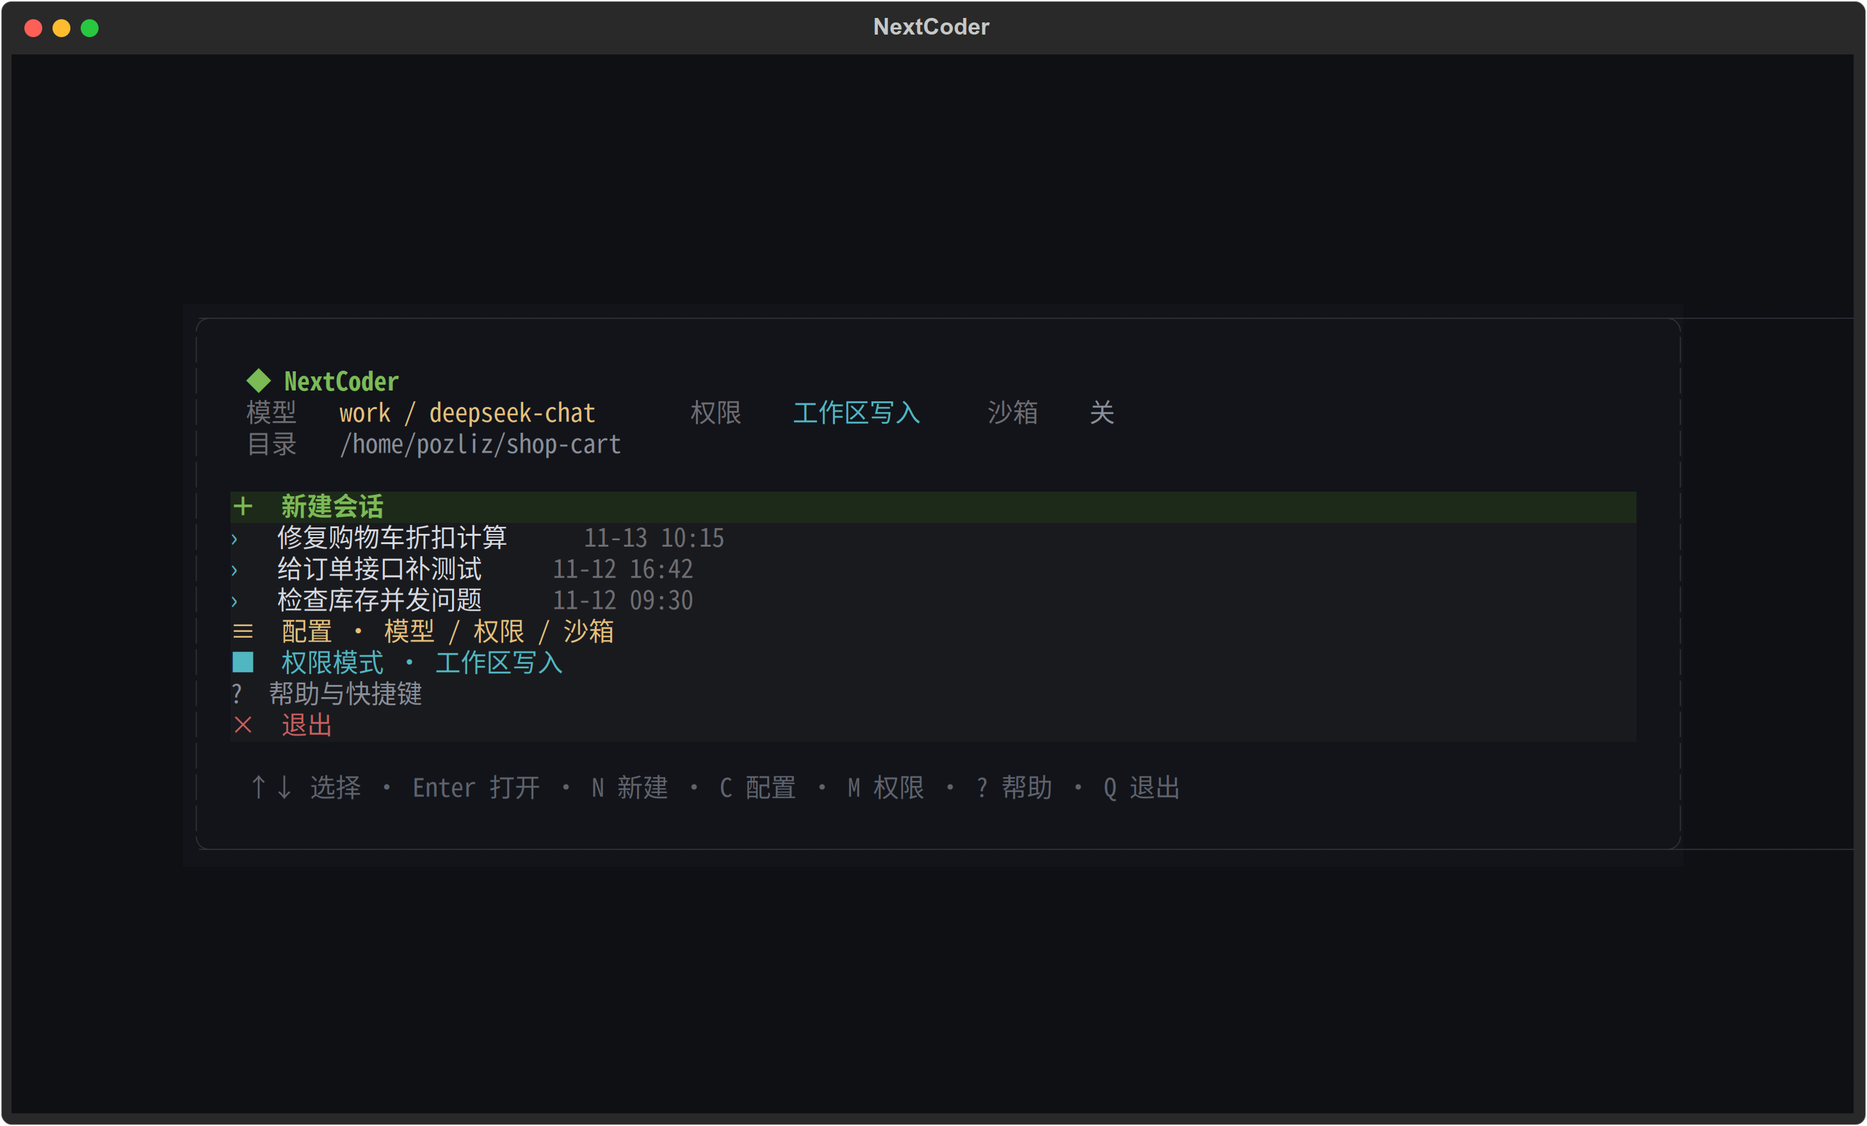
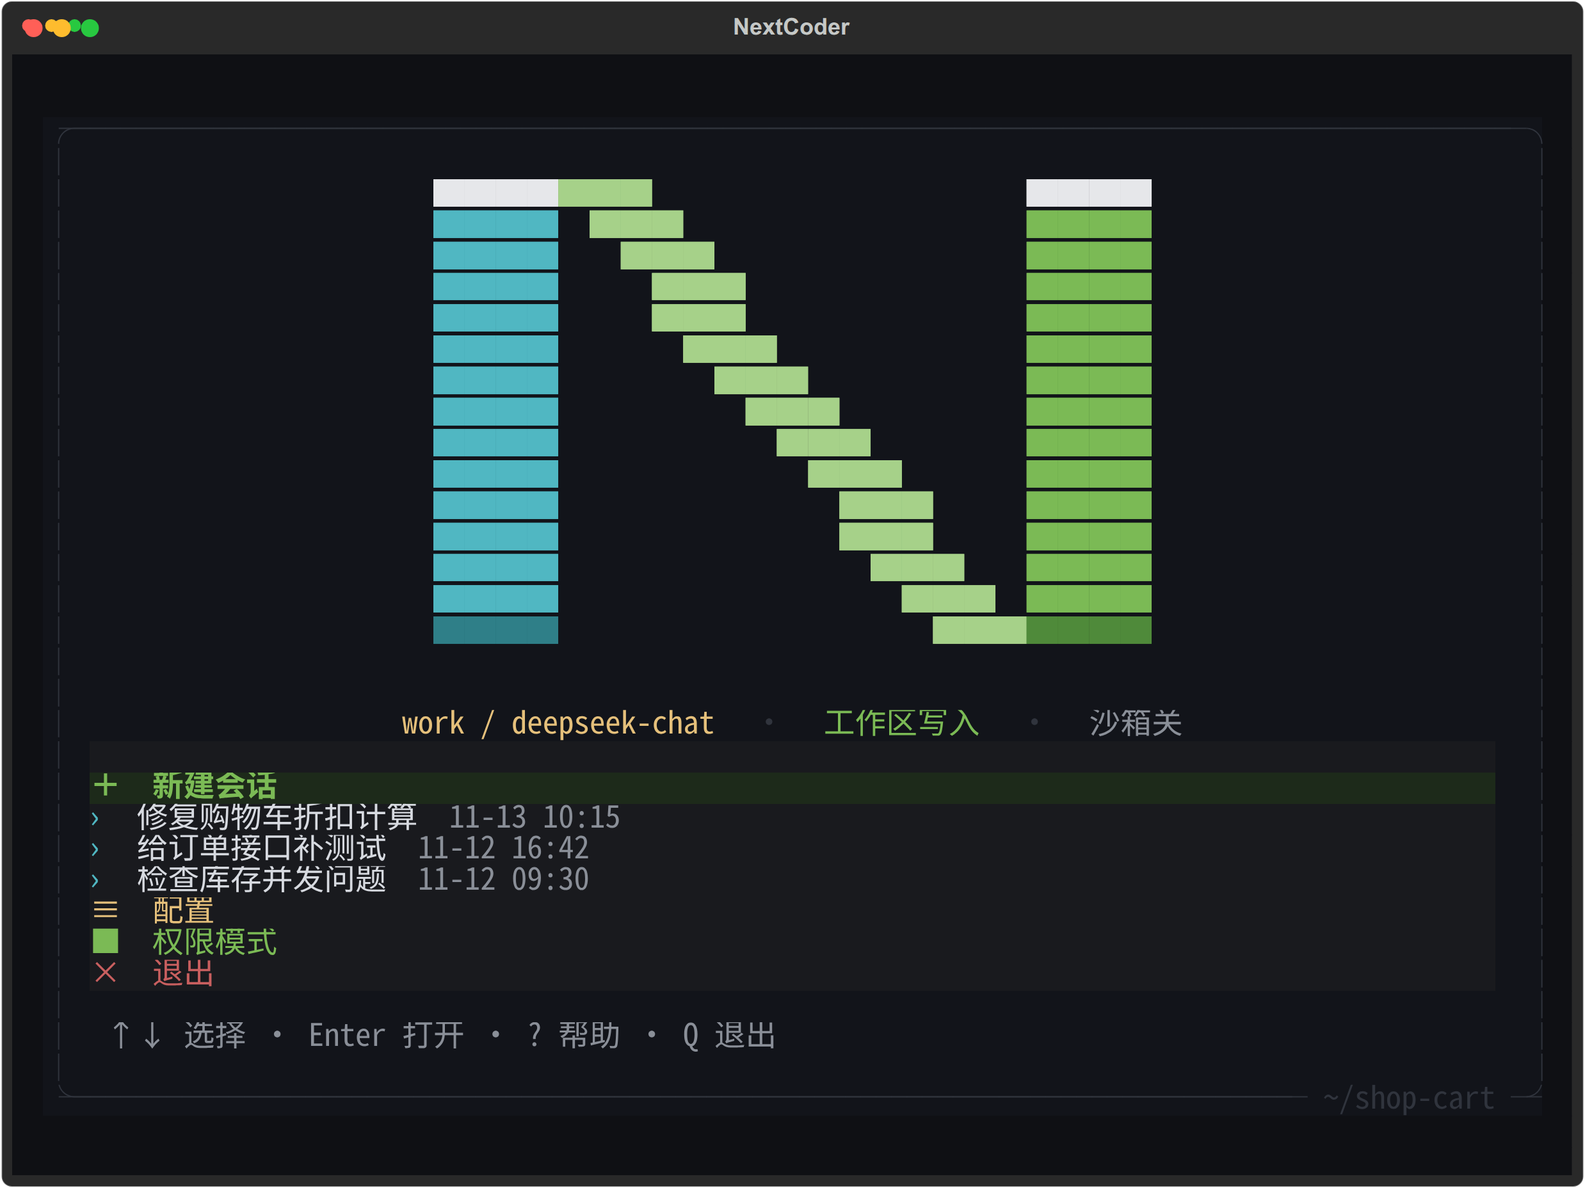
docs: rewrite README around the welcome screen and refresh shots
- remove the caption, table of contents, feature tables, and design trees
- add an accurate permission table, setup steps, and artifact overview
- replace the welcome and mode shots and add the permission dialog
- align the GitHub/package description and contribution guidance

diff --git a/README.md b/README.md
@@ -5,8 +5,7 @@
 <h1 align="center">NextCoder</h1>
 
 <p align="center">
-  <strong>在现有代码仓库里工作的终端编程助手。</strong><br>
-  <sub>A terminal coding agent that works inside your repository.</sub>
+  <strong>在现有仓库里读代码、改文件、跑测试，每一轮留下可审查的补丁和报告。</strong>
 </p>
 
 <p align="center">
@@ -16,66 +15,35 @@
   <img alt="OpenAI compatible" src="https://img.shields.io/badge/Models-OpenAI--compatible-111827?style=flat-square">
 </p>
 
----
-
-NextCoder 把任务目录当成工作区。它读代码、改文件、运行命令和测试、维护任务清单，并在每一轮结束时留下可以检查的补丁、报告和操作记录。
-
-权限判断、上下文压缩、子 agent、MCP 和崩溃恢复都在同一套运行时里，终端界面负责把过程显示出来。
-
 <p align="center">
-  <img src="docs/assets/tui-welcome.png" alt="NextCoder 启动页">
+  <img src="docs/assets/tui-welcome.png" alt="NextCoder 启动页：像素字标、最近会话和当前模型" width="860">
 </p>
 
-<p align="center">
-  <sub>启动页：最近会话、当前模型、权限模式和任务目录。</sub>
-</p>
+NextCoder 是一个在终端里工作的编码 agent。你把 `--task-dir` 指向要改的仓库，它读代码、改文件、运行测试；一轮结束后，改动、报告和工具日志都留在 `.nextcoder/` 里。需要确认的动作会停下来问你，已经做完的改动可以逐项检查，也可以直接取走补丁。
 
-## 目录
+## 安装
 
-- [为什么是 NextCoder](#为什么是-nextcoder)
-- [快速开始](#快速开始)
-- [使用](#使用)
-- [配置](#配置)
-- [能力](#能力)
-- [工作方式](#工作方式)
-- [文档](#文档)
-- [开发](#开发)
-- [贡献](#贡献)
-- [许可证](#许可证)
-
-## 为什么是 NextCoder
-
-| 设计目标 | NextCoder 的做法 |
-|----------|------------------|
-| 在真实仓库里工作 | `--task-dir` 指向目标仓库，文件修改直接落在工作区，结束时导出可 `git apply` 的 `final.patch` |
-| 权限可解释 | 逐项确认、工作区写入、沙箱内自动、完全放行四档；命令、文件、MCP 工具走同一套判定 |
-| 过程可回看 | 每轮输出 `report.json`、`final.patch`、工具日志和人类可读的 `rollout.jsonl` |
-| 中断可恢复 | 检查点加操作审计；重新进入同一会话时核对已开始的写入，补齐缺失的工具结果 |
-| 模型可替换 | 任意 OpenAI 兼容端点，通过 `config/models.local.toml` 配置多个 profile |
-| 长任务不炸上下文 | 先折叠旧工具正文，超过阈值才生成摘要；摘要不收敛时最多重试一次 |
-
-## 快速开始
-
-需要 Python 3.12、`git`、`bash` 和 [uv](https://docs.astral.sh/uv/)。推荐安装 `rg`；没有时 `search` 会自动退回内置扫描。
+需要 Python 3.12、`git`、`bash` 和 [uv](https://docs.astral.sh/uv/)。推荐安装 `ripgrep`；没有时 `search` 会自动退回内置扫描。
 
 ```bash
-git clone git@github.com:POZLOIZ/NextCoder.git
+git clone https://github.com/POZLOIZ/NextCoder.git
 cd NextCoder
 uv sync --extra tui
 ```
 
-配置模型入口，二选一：
+## 配置模型
+
+复制环境变量模板，填入入口地址、模型名和密钥：
 
 ```bash
-# 方式一：环境变量 / .env
 cp .env.example .env
-# 填入 NEXTCODER_LLM_BASE_URL、NEXTCODER_LLM_MODEL、NEXTCODER_LLM_API_KEY
 ```
 
+想同时保留多个 provider，用 `config/models.local.toml`（模板见 `config/models.example.toml`）：
+
 ```toml
-# 方式二：config/models.local.toml（模板见 config/models.example.toml）
 [[models]]
-name = "primary"
+name = "work"
 provider = "deepseek"
 base_url = "https://api.deepseek.com"
 model = "deepseek-chat"
@@ -84,167 +52,66 @@ context_window = 210000
 max_output_tokens = 4096
 ```
 
-然后启动：
+密钥只写环境变量名，`nextcoder models` 也只显示地址、模型和变量名，不读取明文。
+
+## 启动
 
 ```bash
 uv run nextcoder doctor
 uv run nextcoder tui --task-dir /path/to/your/repo
 ```
 
-> [!NOTE]
-> `--task-dir` 是要修改的代码仓库，不是 NextCoder 自己。会话、计划、记忆和日志保存在目标仓库的 `.nextcoder/` 下。
+`--task-dir` 是要修改的代码仓库，不是 NextCoder 自己。会话、计划、记忆和日志保存在目标仓库的 `.nextcoder/` 下。
 
-不打开 TUI 也可以直接使用：
+不打开 TUI 也可以直接用：
 
 ```bash
-# 单轮任务，导出补丁
+# 单轮任务
 uv run nextcoder run --task-dir /path/to/repo --request "修复 ..."
 
 # 多轮对话
 uv run nextcoder chat --task-dir /path/to/repo
 
-# 无 Textual 的流式对话
+# 不依赖 Textual 的流式对话
 uv run nextcoder chat --stream --task-dir /path/to/repo
-
-# 继续已有会话
-uv run nextcoder run --task-dir /path/to/repo --session <id> --request "继续 ..."
 ```
 
-## 使用
+## 权限
 
-启动页提供最近会话、新建、配置、权限模式和帮助。输入 `/` 查看命令补全，输入 `@` 引用任务目录里的文件；助手输出按 Markdown 渲染，每轮有独立的 `ROUND NN` 标题、状态和 token/cache/耗时 footer。
+默认是「工作区写入」。四档权限的区别只在于哪些动作需要你点头：
 
-| 按键 | 作用 |
-|------|------|
-| `Enter` | 发送；补全可见时接受候选 |
-| `Shift+Enter` | 换行 |
-| `↑` / `↓` | 历史；补全可见时选择候选 |
-| `Tab` | 接受 `/` 命令或 `@` 文件候选 |
-| `Ctrl-C` | 停止当前轮；空闲时退出 |
-| `F1`–`F4` | 帮助 / 配置 / 权限 / 会话 |
-| `Ctrl-N` | 新建会话 |
+| 模式 | 读取 | 修改 | 删除 | 运行命令 |
+|------|------|------|------|----------|
+| 逐项确认 | 工作区内放行 | 每次询问 | 每次询问 | 每次询问 |
+| 工作区写入 | 工作区内放行 | 工作区内放行 | 每次询问 | 每次询问 |
+| 沙箱内自动 | 工作区内放行 | 工作区内放行 | 每次询问 | 有真实隔离时放行，否则询问 |
+| 完全放行 | 放行 | 放行 | 放行 | 放行（不可逆命令除外） |
 
-常用斜杠命令：
-
-| 命令 | 作用 |
-|------|------|
-| `/help` | 查看快捷键和命令 |
-| `/new`、`/sessions` | 新建或切换会话 |
-| `/config`、`/model`、`/mode`、`/sandbox` | 修改模型、权限模式和执行沙箱 |
-| `/plan` | 查看当前任务清单 |
-| `/compact` | 手动压缩上下文 |
-| `/export` | 导出当前会话补丁 |
-| `/clear`、`/status`、`/quit` | 清屏、查看状态、退出 |
-
-缓存显示区分冷启动和暖调用：第一次请求显示「缓存 首次」；总命中率因为冷启动低于 90%、但暖命中率高于 90% 时显示「缓存 75%（暖 94%）」。会话标题取第一条请求的第一行，去掉 Markdown、最长 40 字，不额外调用模型。
-
-## 配置
-
-### 模型 profile
-
-`config/models.local.toml` 用 `[[models]]` 描述任意 OpenAI 兼容入口，密钥只写环境变量名：
-
-```toml
-[[models]]
-name = "work"
-provider = "openrouter"
-base_url = "https://openrouter.ai/api/v1"
-model = "vendor/model-name"
-api_key_env = "OPENROUTER_API_KEY"
-thinking = "omit"
-context_window = 128000
-max_output_tokens = 8192
-headers = { "HTTP-Referer" = "https://example.com", "X-Title" = "NextCoder" }
-
-# 可选 429 备援；三元组齐全才启用
-fallback_base_url = "https://api.deepseek.com"
-fallback_model = "deepseek-chat"
-fallback_api_key_env = "DEEPSEEK_FALLBACK_API_KEY"
-```
-
-选择顺序：`--profile` 或 `NEXTCODER_MODEL_PROFILE` 显式指定；否则环境已给 `NEXTCODER_LLM_BASE_URL`/`NEXTCODER_LLM_MODEL` 就用环境；否则选 `primary`（没有 primary 选第一条）。`nextcoder models` 只显示地址、模型和密钥变量名，不读取或打印密钥。
-
-### 四档权限
-
-默认「工作区写入」。界面里用日常中文显示，配置文件用英文值：
-
-| 配置值 | 界面名称 | 行为 |
-|--------|----------|------|
-| `manual` | 逐项确认 | 工作区内读取放行；改文件、删文件、运行命令、调用 MCP 都先问 |
-| `workspace` | 工作区写入 | 工作区内读写放行；运行命令、调用 MCP 仍然先问 |
-| `auto` | 沙箱内自动 | 工作区内读写放行；命令只在容器或 bwrap 真实可用时自动跑，否则先问 |
-| `bypass` | 完全放行 | 除不可逆命令底线外全部放行；只建议在完全信任的隔离环境使用 |
+调用 MCP 工具和运行命令的规则相同；敏感文件在非完全放行模式下也会询问。`rm -rf /`、`mkfs`、写设备、提权等不可逆命令在所有模式直接拒绝，不会弹询问。`run` 这类非交互入口没有确认界面，需要询问的动作一律按拒绝处理。
 
 <p align="center">
-  <img src="docs/assets/tui-permissions.png" alt="NextCoder 权限模式选择">
+  <img src="docs/assets/tui-permission-prompt.png" alt="权限确认：允许一次、本会话允许、拒绝" width="760">
 </p>
 
-敏感文件在 `manual`、`workspace`、`auto` 会询问，`bypass` 放行；删除在 `manual`、`workspace`、`auto` 都会询问。`rm -rf /`、`mkfs`、`dd` 写设备、提权、fork 炸弹等不可逆命令在所有模式直接拒绝，而且不会询问。
+`auto` 只有在命令容器、当前进程位于容器内，或本机 `bwrap` 真实可用时才自动执行；条件不满足就退回询问，不会假装安全。`bypass` 只建议在完全信任的隔离环境里使用。完整规则见 [docs/permissions.md](docs/permissions.md)。
 
-`auto` 判断「有真实隔离」的依据：配置了 `command_container`、当前进程本身在容器里，或本机 `bwrap` 可用。三条都不满足时会退回询问，不会假装安全。规则文件 `.nextcoder/permissions.json` 支持 `path`、`command_prefix`、`mcp_tool` 三种 scope，`deny` 优先于 `allow`。完整说明见 [docs/permissions.md](docs/permissions.md)。
+## 一轮结束后
 
-## 能力
+每一轮在 `.nextcoder/sessions/<id>/turns/<turn_id>/` 留下 `report.json`、`final.patch` 和工具日志。`final.patch` 可以直接 `git apply`；`rollout.jsonl` 记录请求、工具调用、权限回答和计划变化，用于查看和调试。进程中断后重新进入同一会话，会先核对已经开始的写入，再补齐缺失的工具结果，不会重复执行已完成的修改。
 
-| 能力 | 说明 |
-|------|------|
-| 文件与命令 | `list_files`、`search`、`read_lines`、`read_log`、`write_file`、`apply_patch`、`run_command`、`view_diff` |
-| 任务清单 | `.nextcoder/task-plan.json` 是唯一事实源；TUI 直接读，更新写 rollout |
-| 项目记忆 | SQLite 加 Markdown 投影；会话入口注入快照，模型可显式读写，后台整理 agent |
-| 子 agent | `researcher`/`reviewer` 只读，`tester`/`coder` 在 git worktree 中写；支持后台、取消、恢复 |
-| MCP | stdio 与 Streamable HTTP；工具名 `mcp__server__tool`；密钥只从环境展开 |
-| hooks | `before_tool_use` / `after_tool_use`；支持 block、note、reminder，不执行任意脚本 |
-| AGENTS.md | 会话创建/加载时读取一次，进入稳定前缀；默认上限 8,000 字符 |
-| 多 provider | `config/models.local.toml` 的 profile；任意 OpenAI 兼容端点；可选 429 备援 |
-| 崩溃恢复 | 检查点加操作审计；未配对工具调用核对后补齐 |
-| 流式 | 首个 chunk 前可切备援；chunk 聚合、tool_calls 合并、reasoning 保留 |
+## 常用命令
 
-## 工作方式
-
+```bash
+uv run nextcoder doctor                 # 检查配置和运行环境
+uv run nextcoder models                 # 列出模型 profile
+uv run nextcoder tui --task-dir <repo>  # 打开终端界面
+uv run nextcoder chat --task-dir <repo> # 多轮对话
+uv run nextcoder run --task-dir <repo> --request "..."  # 单轮任务
 ```
-CLI / TUI
-   │
-   ▼
-sessions.manager ──► AgentRunner（LangGraph）
-                        ├─ 稳定前缀：基础规则 + AGENTS.md + 记忆快照 + 技能目录
-                        ├─ 每轮尾部：任务清单快照 + 最新请求
-                        ├─ 上下文：折叠旧工具正文 → 必要时语义摘要
-                        ├─ 模型：流式 / 备援 / 超时
-                        └─ 工具：hooks → 权限 → 执行 → 审计 → 事件
-   │
-   ▼
-checkpoint / rollout / report / final.patch
-```
-
-稳定前缀只在会话开始时组装一次，中途改 `AGENTS.md`、记忆或技能目录，下一会话才生效；任务清单挂在请求尾部，不写检查点。这样既不会破坏服务端前缀缓存，也不会让计划更新改掉整个历史。
-
-会话产物：
-
-```
-<repo>/.nextcoder/
-├── sessions/<session_id>/
-│   ├── session.json
-│   ├── rollout.jsonl
-│   ├── checkpoints.sqlite
-│   ├── operations.sqlite
-│   ├── baseline/
-│   ├── turns/<turn_id>/{report.json,final.patch,logs/}
-│   └── subagents/<child_id>/{report.md,report.json,changes.patch}
-├── task-plan.json
-├── memory.sqlite
-├── memory.md
-└── hooks.json / permissions.json / mcp.json
-```
-
-`final.patch` 可以直接 `git apply`。`rollout.jsonl` 只用于查看和调试，不参与恢复；恢复看 `checkpoints.sqlite` 和 `operations.sqlite`。更多设计见 [docs/architecture.md](docs/architecture.md)。
 
 ## 文档
 
-| 文档 | 内容 |
-|------|------|
-| [docs/architecture.md](docs/architecture.md) | 运行时结构、一次请求的路径、会话产物 |
-| [docs/permissions.md](docs/permissions.md) | 四档权限、规则文件、审批、bubblewrap、hooks |
-| [docs/tui.md](docs/tui.md) | 启动页、快捷键、斜杠命令、`@` 文件、缓存与标题 |
-| [CONTRIBUTING.md](CONTRIBUTING.md) | 问题反馈和提交改动的约定 |
+[架构](docs/architecture.md) · [权限、沙箱与 hooks](docs/permissions.md) · [终端界面](docs/tui.md) · [贡献约定](CONTRIBUTING.md)
 
 ## 开发
 
@@ -257,25 +124,9 @@ uv build
 
 GitHub Actions 会运行同样的 ruff、pytest 和 build。
 
-仓库结构：
-
-```
-src/nextcoder/
-├── cli.py              # Typer 入口
-├── llm.py              # 模型、流式、备援、超时
-├── settings.py         # 配置与默认值
-├── model_config.py     # 多 provider profile
-├── runtime/            # Agent、压缩、权限、hooks、子 agent、MCP、计划、技能
-├── sessions/           # 会话、检查点、审计、记忆、恢复、rollout
-├── tools/              # 文件、命令、编辑、计划、记忆、技能、MCP
-└── tui/                # Textual 界面、弹窗、补全、回合卡片
-docs/                   # 设计、权限、TUI
-tests/                  # 离线测试与集成测试
-```
-
 ## 贡献
 
-问题、想法和改动建议请通过 [GitHub Issues](https://github.com/POZLOIZ/NextCoder/issues) 提出。提交 PR 前请先开 issue 对齐范围，并确认 `ruff` 和 `pytest` 通过。更多约定见 [CONTRIBUTING.md](CONTRIBUTING.md)。
+问题、想法和改动建议请通过 [GitHub Issues](https://github.com/POZLOIZ/NextCoder/issues) 提出。
 
 ## 许可证
 

diff --git a/docs/tui.md b/docs/tui.md
@@ -16,13 +16,12 @@ uv run nextcoder tui --task-dir /path/to/repo
 启动页只保留日常需要的入口：
 
 - **新建会话**：创建一次新的运行，后台复制基线，界面不会卡住；
-- **最近会话**：显示根据第一条请求生成的标题和时间，空会话不占位置；
+- **最近会话**：显示根据第一条请求生成的标题和时间，最多三条，空会话不占位置；
 - **配置**：模型 profile、endpoint、模型名、reasoning effort、权限模式、沙箱开关；
 - **权限模式**：四档权限，当前档位会高亮并显示说明；
-- **帮助与快捷键**；
 - **退出**。
 
-底部会显示当前模型、权限、沙箱状态和任务目录。启动页没有任何功能清单式文案。
+字标用色块拼出 N，窗口足够大时显示完整像素字标，宽度不足时退回单行 `>_ NextCoder`。字标下方一行显示当前 profile / 模型、权限模式和沙箱状态；任务目录显示在弹窗右下角的边框上。帮助仍然可以按 `?` 或 `F1` 打开。
 
 ## 快捷键
 
@@ -51,10 +50,10 @@ uv run nextcoder tui --task-dir /path/to/repo
 | `/config` | 配置 endpoint、模型、effort、权限与沙箱 |
 | `/model` | 切换模型 profile / endpoint |
 | `/mode [manual\|workspace\|auto\|bypass]` | 切换权限模式 |
-| `/sandbox [on\|off\|network on\|off\|status]` | 查看或切换 bubblewrap 沙箱 |
+| `/sandbox [on\|off\|network on\|off\|strict on\|off\|status]` | 查看或切换 bubblewrap 沙箱；`strict` 控制 fail-closed |
 | `/plan` | 显示或隐藏任务清单面板 |
 | `/compact` | 压缩当前会话上下文 |
-| `/export [path]` | 把当前对话导出为 Markdown |
+| `/export [path]` | 把当前对话导出为 Markdown；省略路径时写入 `.nextcoder/exports/`，路径不能超出任务目录 |
 | `/clear` | 清空屏幕（不删除会话记录） |
 | `/status` | 显示当前会话、模型与运行状态 |
 | `/quit` | 退出 |
@@ -74,7 +73,7 @@ uv run nextcoder tui --task-dir /path/to/repo
 - 每轮有独立的 `ROUND NN` 标题、状态、模型/权限标记和 footer。
 - 工具调用显示名称、参数摘要、状态、耗时和完整日志路径；展开/折叠由界面控制。
 - 任务清单面板直接读 `.nextcoder/task-plan.json`，按 revision 去重刷新。
-- 运行中会显示 `正在创建会话…`、`等待模型`、`运行命令`、`压缩中`、`子 agent 运行中` 等活动状态。
+- 运行中会显示「正在创建会话…」「模型生成中…」「执行工具：…」「工具完成：…」「压缩中，请稍候」以及子 agent 状态；需要确认的动作会单独弹窗。
 
 ### 缓存显示
 

diff --git a/docs/permissions.md b/docs/permissions.md
@@ -21,7 +21,7 @@ NextCoder 把「要不要做」和「能不能做」分成两层：
 - **敏感文件**（`.env`、密钥、凭证等）在 `manual`、`workspace`、`auto` 会询问，不会自动读写；`bypass` 放行。
 - **删除**在 `manual`、`workspace`、`auto` 都会询问；`bypass` 才自动放行。
 - **不可逆命令底线**在所有模式都直接拒绝，而且不会弹出询问：`rm -rf /`、`mkfs`、`dd` 写设备、提权、fork 炸弹等。
-- **非交互入口**（`nextcoder run`、脚本调用）没有询问界面，需要询问的动作一律按拒绝处理。`chat` 和 `tui` 才会弹出「允许一次 / 本会话允许 / 拒绝」。
+- **非交互入口**（`nextcoder run`、脚本调用）没有询问界面，需要询问的动作一律按拒绝处理。`tui` 会弹出「允许一次 / 本会话允许 / 拒绝」，`chat` 在命令行里询问 `[o]nce/[s]ession/[d]eny`。
 - 旧配置里的 `standard` 自动迁移为 `workspace`，`aggressive` 自动迁移为 `bypass`。
 
 `auto` 判断「有真实隔离」的依据，满足任意一条即可：
@@ -32,7 +32,7 @@ NextCoder 把「要不要做」和「能不能做」分成两层：
 
 三条都不满足时，`auto` 不会假装安全，会退回询问。
 
-![权限模式选择](assets/tui-permissions.png)
+![权限模式选择](assets/tui-permission-modes.png)
 
 ## 规则文件
 
@@ -65,6 +65,8 @@ NextCoder 把「要不要做」和「能不能做」分成两层：
 2. 选择「允许一次」只放行这一次；「本会话允许」把 `(动作, 目标)` 放进当前会话内存，不写磁盘；
 3. 选「拒绝」、按 Esc 或直接退出，都按拒绝处理；
 4. 请求和回答都会写 `rollout.jsonl`，便于回看。
+
+![权限确认](assets/tui-permission-prompt.png)
 
 ## bubblewrap 沙箱
 

diff --git a/CONTRIBUTING.md b/CONTRIBUTING.md
@@ -4,7 +4,8 @@ NextCoder is currently maintained as a private project.
 
 - For bug reports, questions, or design discussions, open an issue or contact
   [@POZLOIZ](https://github.com/POZLOIZ).
-- Please open an issue before sending a pull request so the scope and approach
-  can be agreed on first.
-- Keep changes focused, follow the existing module boundaries, and run
-  `uv run ruff check` plus `uv run pytest -q` before submitting.
+- Code changes are by invitation only; please open an issue first so the scope
+  and licensing can be agreed on.
+- If you have been invited to contribute, keep changes focused, follow the
+  existing module boundaries, and run `uv run ruff check` plus
+  `uv run pytest -q` before submitting.
